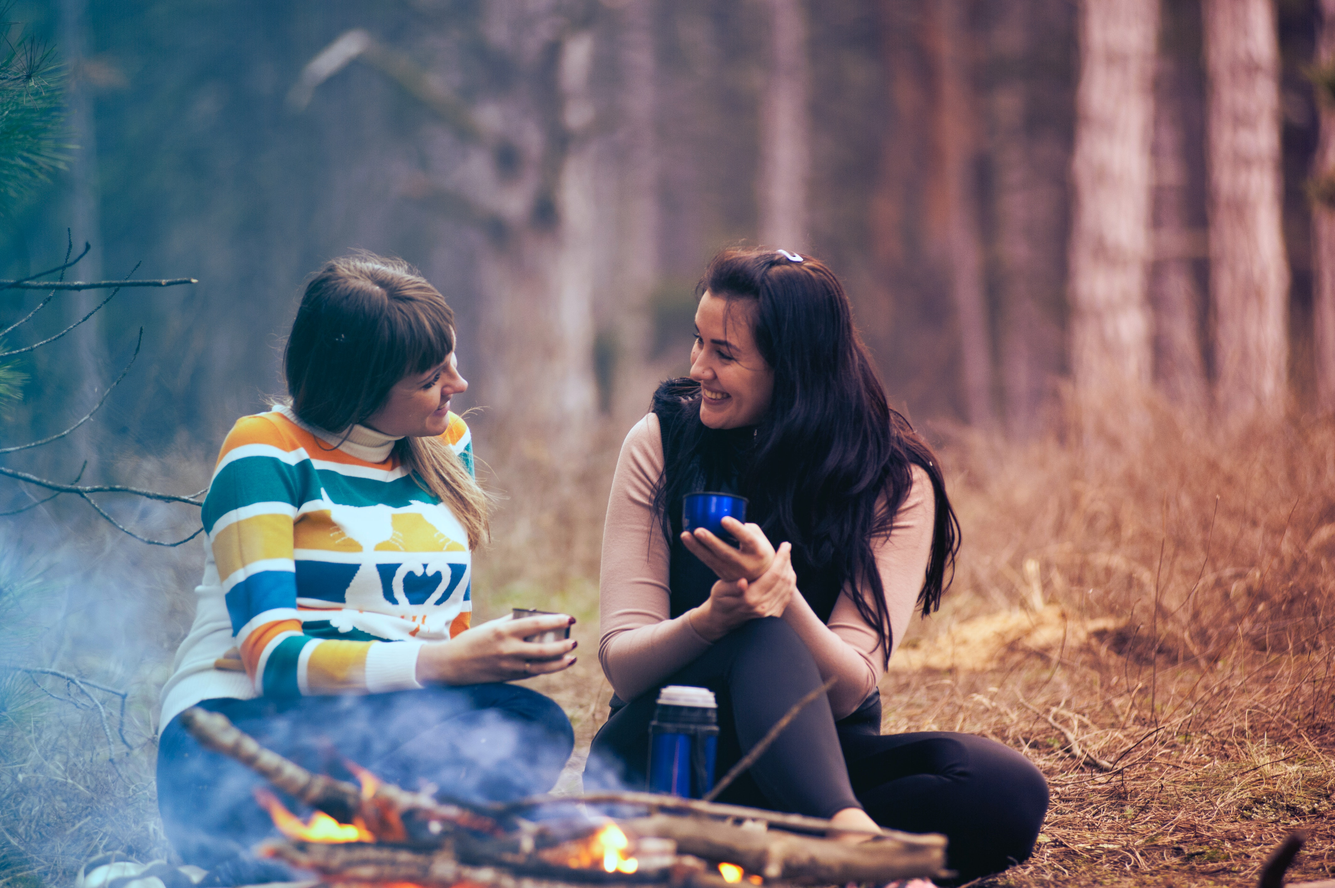
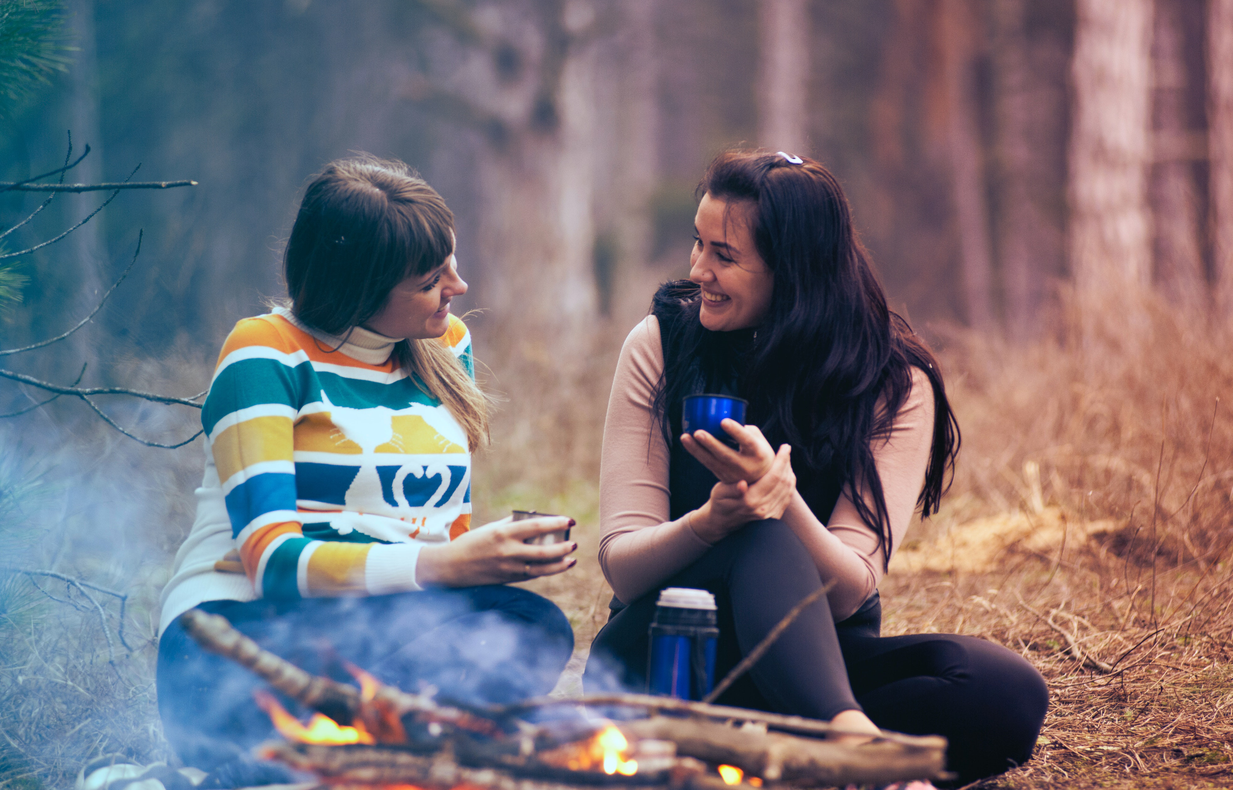
More changes

diff --git a/src/App.tsx b/src/App.tsx
@@ -6,10 +6,15 @@ import {
   ChakraProvider,
   Grid,
   GridItem,
+  Link,
+  List,
+  ListIcon,
+  ListItem,
   Stack,
   Text,
   TextProps,
 } from "@chakra-ui/react";
+import { CalendarIcon, EmailIcon, PhoneIcon } from "@chakra-ui/icons";
 
 import { HappyListening } from "./components/HappyListening";
 import { Masthead } from "./components/Masthead";
@@ -19,6 +24,9 @@ import theme from "./theme";
 import "./App.css";
 
 import heroImage from "./assets/people-connecting.jpg";
+import aboutUs from "./assets/people-talking.jpg";
+import coreValues from "./assets/cafe.jpg";
+import meetPeople from "./assets/phone.jpg";
 
 const H2 = ({ children, ...otherProps }: TextProps) => {
   return (
@@ -33,7 +41,7 @@ const HeroImage = () => {
     <GridItem
       gridRowStart={1}
       gridColumnStart={1}
-      colSpan={4}
+      gridColumnEnd={-1}
       height="100%"
       position="relative"
     >
@@ -41,7 +49,7 @@ const HeroImage = () => {
         <Box
           as="img"
           src={heroImage}
-          alt="Two women camping next to a fire — Photo by Oleksandr Pidvalnyi on Pexels"
+          alt="Two women camping next to a fire"
           width="100%"
         />
       </AspectRatio>
@@ -95,89 +103,166 @@ const HeroContent = () => {
 
 const AboutUs = () => {
   return (
-    <Section
-      full
-      bgGradient="linear(to-r, brand.500 70%, whiteAlpha.100)"
-      color="white"
-    >
-      <Section>
-        <H2 id="about-us">About us</H2>
-        <p>
-          We live in a world where you can be surrounded by many people, but
-          still feel lonely, with nobody to turn to when things get rough.
-        </p>
+    <Grid templateColumns="7fr 3fr">
+      <GridItem
+        hideBelow="sm"
+        rowStart={1}
+        colEnd={-1}
+        height="100%"
+        backgroundImage={aboutUs}
+        backgroundSize="auto 100%"
+        backgroundPosition="right"
+        backgroundRepeat="no-repeat"
+      ></GridItem>
 
-        <p>
-          But being heard is an indispensable need of humans, but not everyone
-          has someone to talk to. At <HappyListening />, we aim to answer the
-          big question “How can we make being heard a reality for everyone?”
-        </p>
+      <GridItem rowStart={1} colStart={1} colEnd={-1}>
+        <Section
+          full
+          background={["brand.400", "unset"]}
+          bgGradient={[null, "linear(to-r, brand.400 80%, whiteAlpha.100)"]}
+          color="white"
+        >
+          <Section>
+            <H2 id="about-us">About us</H2>
+            <p>
+              We live in a world where you can be surrounded by many people, but
+              still feel lonely, with nobody to turn to when things get rough.
+            </p>
 
-        <p>
-          No matter who you are or what you're going through, you'll always be
-          heard and cared for. We work towards a world where all voices are
-          heard without judgment.
-        </p>
-      </Section>
-    </Section>
+            <p>
+              But being heard is an indispensable need of humans, but not
+              everyone has someone to talk to. At <HappyListening />, we aim to
+              answer the big question “How can we make being heard a reality for
+              everyone?”
+            </p>
+
+            <p>
+              No matter who you are or what you're going through, you'll always
+              be heard and cared for. We work towards a world where all voices
+              are heard without judgment.
+            </p>
+          </Section>
+        </Section>
+      </GridItem>
+    </Grid>
   );
 };
 
 const CoreValues = () => {
   return (
-    <Section
-      full
-      bgGradient="linear(to-l, brand.600 70%, whiteAlpha.100)"
-      color="white"
-      direction="row"
-      paddingX={0}
-      paddingY={0}
-    >
-      <Section>
-        <H2>Core values</H2>
-        <ul>
-          <li>
-            <strong>Devotion:</strong> <HappyListening /> never stops trying our
-            best to provide our customers with high quality services.
-          </li>
-          <li>
-            <strong>Listening and Understanding:</strong> <HappyListening />{" "}
-            always listens to every of our clients’ unique life experiences
-            while providing genuine support regardless of any gender, religion,
-            living standard, occupation, social class, etc.
-          </li>
-          <li>
-            <strong>Ethical Practice:</strong> <HappyListening /> strictly
-            follows ethical guidelines while constantly advancing our skills and
-            knowledge to provide the best service possible.
-          </li>
-          <li>
-            <strong>Absolute security:</strong> All your information is
-            confidential in accordance with the principle of practice.
-          </li>
-        </ul>
-      </Section>
-    </Section>
+    <Grid templateColumns="3fr 7fr">
+      <GridItem
+        hideBelow="sm"
+        rowStart={1}
+        colStart={1}
+        height="100%"
+        backgroundImage={coreValues}
+        backgroundSize="auto 100%"
+        backgroundPosition="left"
+        backgroundRepeat="no-repeat"
+      ></GridItem>
+
+      <GridItem rowStart={1} colStart={1} colEnd={-1}>
+        <Section
+          full
+          bgGradient="linear(to-l, brand.500 80%, whiteAlpha.100)"
+          color="white"
+          direction="row"
+          paddingX={0}
+          paddingY={0}
+        >
+          <Section>
+            <H2>Core values</H2>
+            <ul>
+              <li>
+                <strong>Devotion:</strong> <HappyListening /> never stops trying
+                our best to provide our customers with high quality services.
+              </li>
+              <li>
+                <strong>Listening and Understanding:</strong> <HappyListening />{" "}
+                always listens to every of our clients’ unique life experiences
+                while providing genuine support regardless of any gender,
+                religion, living standard, occupation, social class, etc.
+              </li>
+              <li>
+                <strong>Ethical Practice:</strong> <HappyListening /> strictly
+                follows ethical guidelines while constantly advancing our skills
+                and knowledge to provide the best service possible.
+              </li>
+              <li>
+                <strong>Absolute security:</strong> All your information is
+                confidential in accordance with the principle of practice.
+              </li>
+            </ul>
+          </Section>
+        </Section>
+      </GridItem>
+    </Grid>
   );
 };
 
 const MeetPeople = () => {
   return (
-    <Section
-      full
-      bgGradient="linear(to-r, brand.500 70%, whiteAlpha.100)"
-      color="white"
-    >
+    <Grid templateColumns="7fr 3fr">
+      <GridItem
+        hideBelow="sm"
+        rowStart={1}
+        colEnd={-1}
+        height="100%"
+        backgroundImage={meetPeople}
+        backgroundSize="auto 100%"
+        backgroundPosition="right"
+        backgroundRepeat="no-repeat"
+      ></GridItem>
+
+      <GridItem rowStart={1} colStart={1} colEnd={-1}>
+        <Section
+          full
+          bgGradient="linear(to-r, brand.400 80%, whiteAlpha.100)"
+          color="white"
+        >
+          <Section>
+            <H2>Meet people who understand</H2>
+            <p>
+              You can find support and friendship for many issues, like
+              depression, anxiety, relationships, LGBTQ+ and more. We have a
+              diverse portfolio of certified listeners who are willing to listen
+              to your stories without judgment.
+            </p>
+          </Section>
+        </Section>
+      </GridItem>
+    </Grid>
+  );
+};
+
+const Footer = () => {
+  return (
+    <Box as="footer" paddingY={8} background="brand.700" color="white">
       <Section>
-        <H2>Meet people who understand</H2>
-        <p>
-          You can find support and friendship for many issues, like depression,
-          anxiety, relationships, LGBTQ+ and more. We have a diverse portfolio
-          of certified listeners who are willing to listen to your stories
-          without judgment.
-        </p>
+        <H2 id="contact-us">Contact us</H2>
+        <List>
+          <ListItem>
+            <ListIcon as={PhoneIcon} />
+            <strong>Hotline:</strong> <Link href="tel:1800xxxx">1800xxxx</Link>
+          </ListItem>
+          <li>
+            <ListIcon as={EmailIcon} />
+            <strong>Email:</strong>{" "}
+            <Link href="mailto:info@happylistening.com">
+              info@happylistening.com
+            </Link>
+          </li>
+          <li>
+            <ListIcon as={CalendarIcon} />
+            <strong>Booking:</strong>{" "}
+            <Link href="https://forms.gle/Z6v33n641Dwp5aQx5">
+              https://forms.gle/Z6v33n641Dwp5aQx5
+            </Link>
+          </li>
+        </List>
       </Section>
-    </Section>
+    </Box>
   );
 };
 
@@ -187,33 +272,16 @@ function App() {
       <Box as="main" width="100%" minHeight="100vh">
         <Masthead />
 
-        <Section full padding={0}>
-          <Grid templateColumns="1fr minmax(auto, 1280px) 1fr">
-            <HeroImage />
-            <HeroContent />
-          </Grid>
-        </Section>
+        <Grid templateColumns="1fr minmax(auto, 1280px) 1fr">
+          <HeroImage />
+          <HeroContent />
+        </Grid>
 
         <AboutUs />
         <CoreValues />
         <MeetPeople />
 
-        <Box
-          as="footer"
-          paddingY={8}
-          background="brand.700"
-          color="white"
-          // bgGradient="linear(white 0%, yellow.100 25%, yellow.300, orange.400)"
-        >
-          <Section>
-            <H2 id="contact-us">Contact us</H2>
-            <ul>
-              <li>Hotline: 18001463</li>
-              <li>Email: info.happylistening@gmail.com</li>
-              <li>Booking: https://forms.gle/Z6v33n641Dwp5aQx5</li>
-            </ul>
-          </Section>
-        </Box>
+        <Footer />
       </Box>
     </ChakraProvider>
   );

diff --git a/src/components/Masthead.tsx b/src/components/Masthead.tsx
@@ -13,8 +13,7 @@ export const Masthead = () => {
       alignItems="center"
       position="sticky"
       top={0}
-      boxShadow="0px 2px 4px #757575"
-      background="brand.500"
+      background="brand.600"
       zIndex={100}
     >
       <Image src={logo} alt="Happy Listening Logo" height={24} />

diff --git a/src/theme.ts b/src/theme.ts
@@ -18,6 +18,7 @@ const theme = extendTheme({
       // 500: "#5bb8ff",
       // 600: "#205565",
 
+      400: "#347893",
       500: "#00A0A9",
       600: "#005F7B",
       700: "#08314A",
